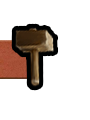
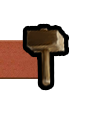
Style and GUI cleaning

Changed region(s): [[0.1111, 0.175, 0.7778, 0.775]]

diff --git a/Styles/style.css b/Styles/style.css
@@ -68,14 +68,14 @@ z-index: 1;
 
 .shine
 {
-	background-color: white;
+	background-color: red;
 	position: absolute;
 	width: calc(100% - 10px);
 	left: 8px;
 	height: 55%;
 	top: 3px;
 	border-radius: 10px;
-	opacity: .8;
+	opacity: .3;
 
 }
 
@@ -95,16 +95,27 @@ z-index: 1;
 	position: absolute;
 	width: 100%;
 	height: 100%;
-		border: 3px solid black;
+	border: 3px solid black;
 	border-radius: 20px;
+}
+
+#coinnumber
+{
+	font-size: 2.5em;
+	margin-left: 35%;
+	font-family: 'Oxygen', sans-serif;
+	top: -5px;
+	position: absolute;
+	letter-spacing: 4px;
+	text-shadow: 2px 2px #444444;
 }
 
 #coinicon{
 	position: absolute;
-	width: 40px;
-	height: 40px;
-	top: 3px;
-	right: 0px;
+	width: 50px;
+	height: 50px;
+	top: -3px;
+	right: -10px;
 	background-image: url("../Images/GUI/coinicon.png")
 }
 
@@ -140,6 +151,7 @@ z-index: 1;
 	width: 89px;
 	height: 140px;
 	top: 33%;
+	left: 0px;
 }
 
 #qrcodeicon

diff --git a/index.html b/index.html
@@ -5,6 +5,7 @@
 		<meta name="viewport" content="width=device-width, initial-scale=1.0">
 		<title>Red City</title>
 		<link rel="stylesheet" type="text/css" href="Styles/style.css">
+		<link href="https://fonts.googleapis.com/css?family=Oxygen" rel="stylesheet">
 		<script type="text/javascript" charset="utf-8" src="cordova.js"></script>
 	</head>
 
@@ -21,7 +22,9 @@
 				<div id = "qrcodeicon" class = "baricons"></div>
 			</div>
 			<div id = "coinbar">
-				<div id = "coins"></div>
+				<div id = "coins">
+					<div id = "coinnumber">15</div>
+				</div>
 				<div class = "shine"></div>
 				<div id = "coinicon"></div>
 			</div>
